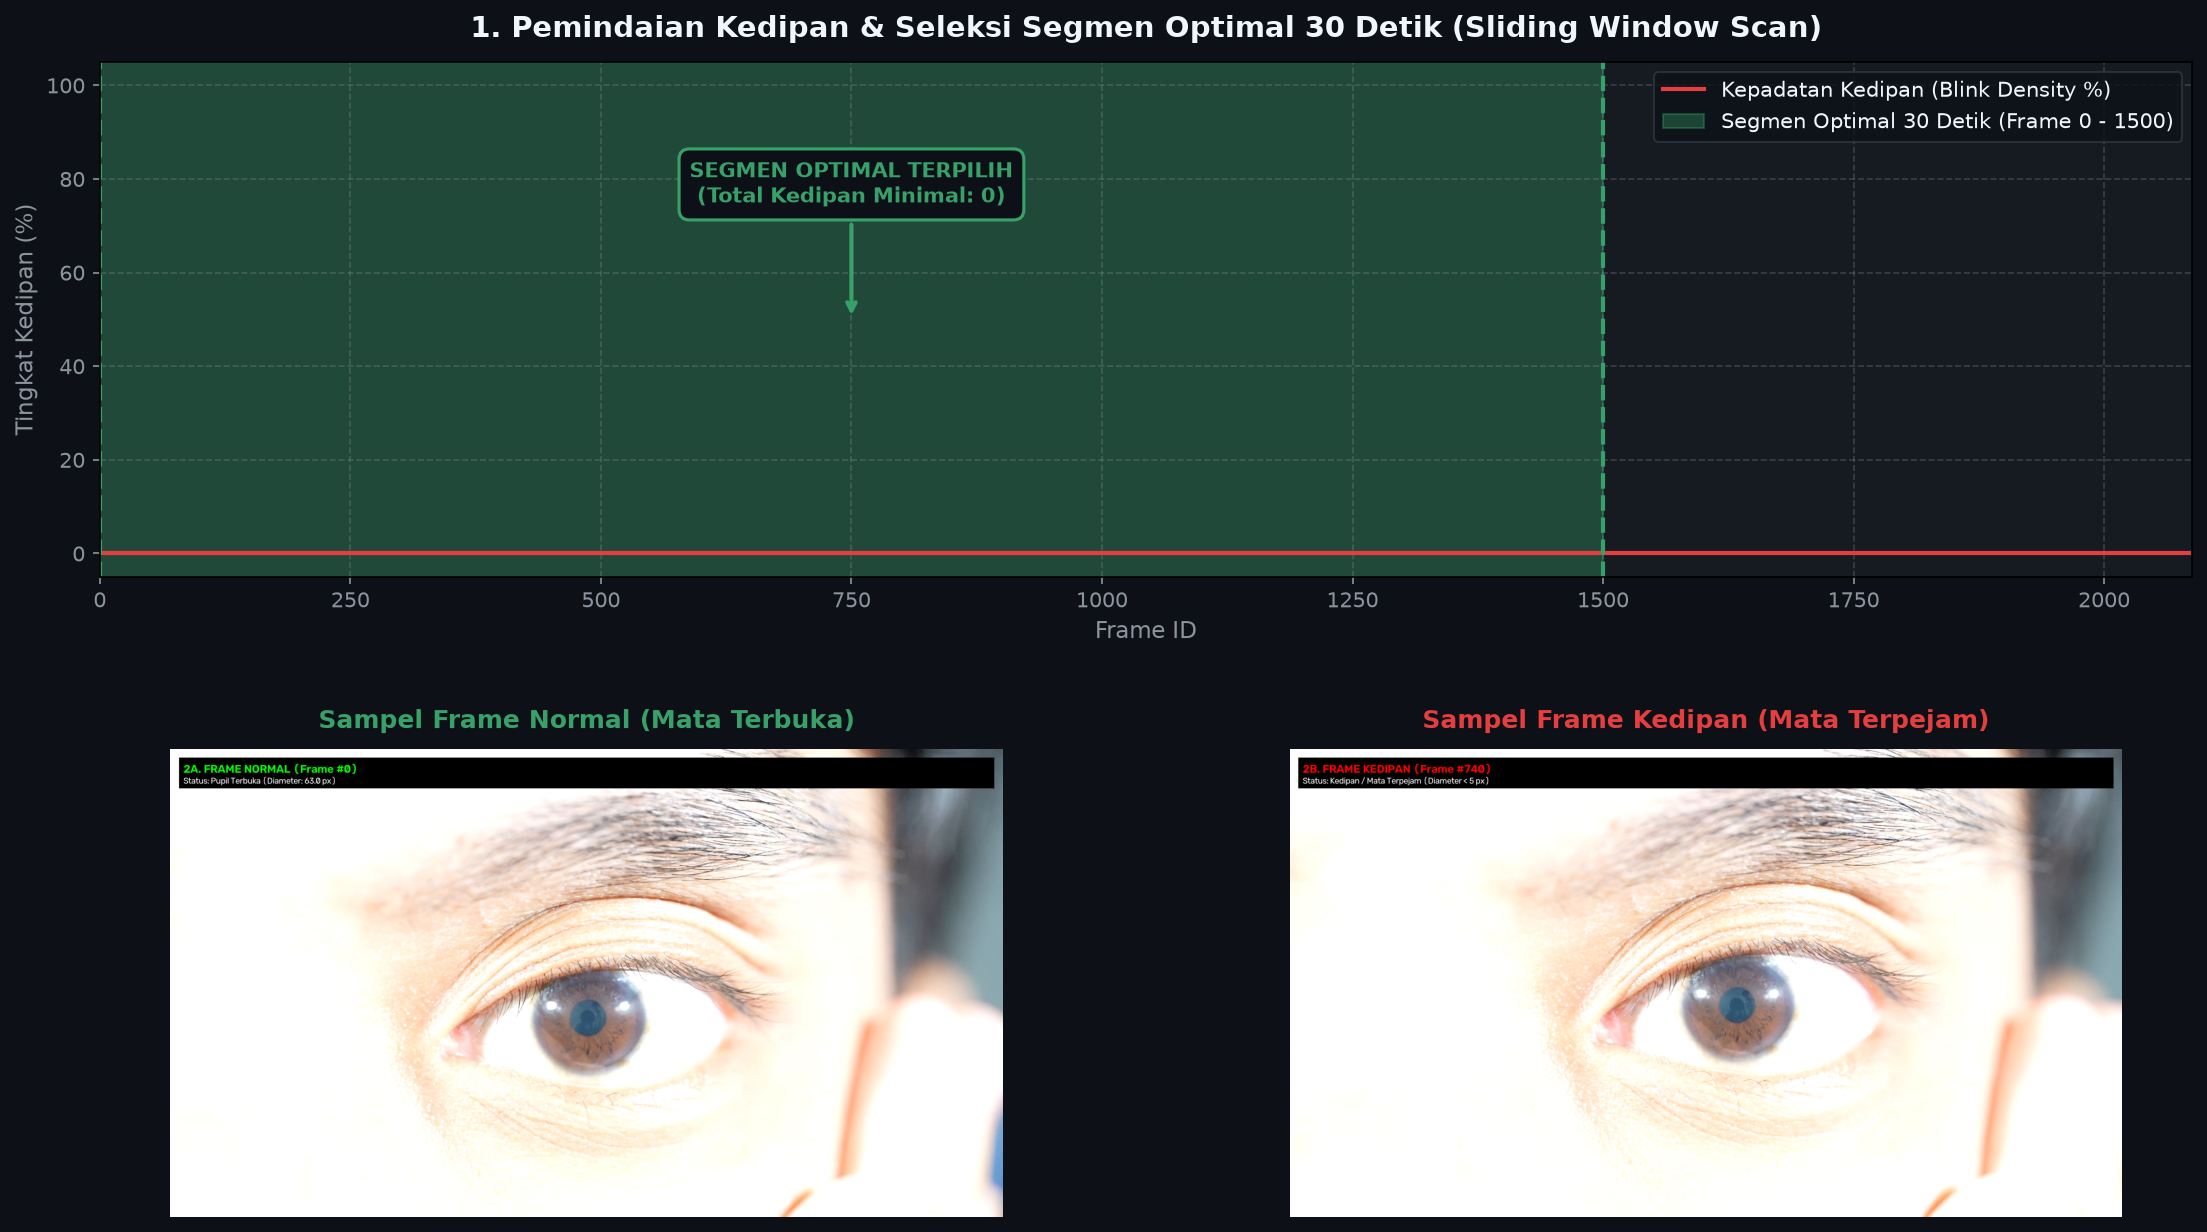
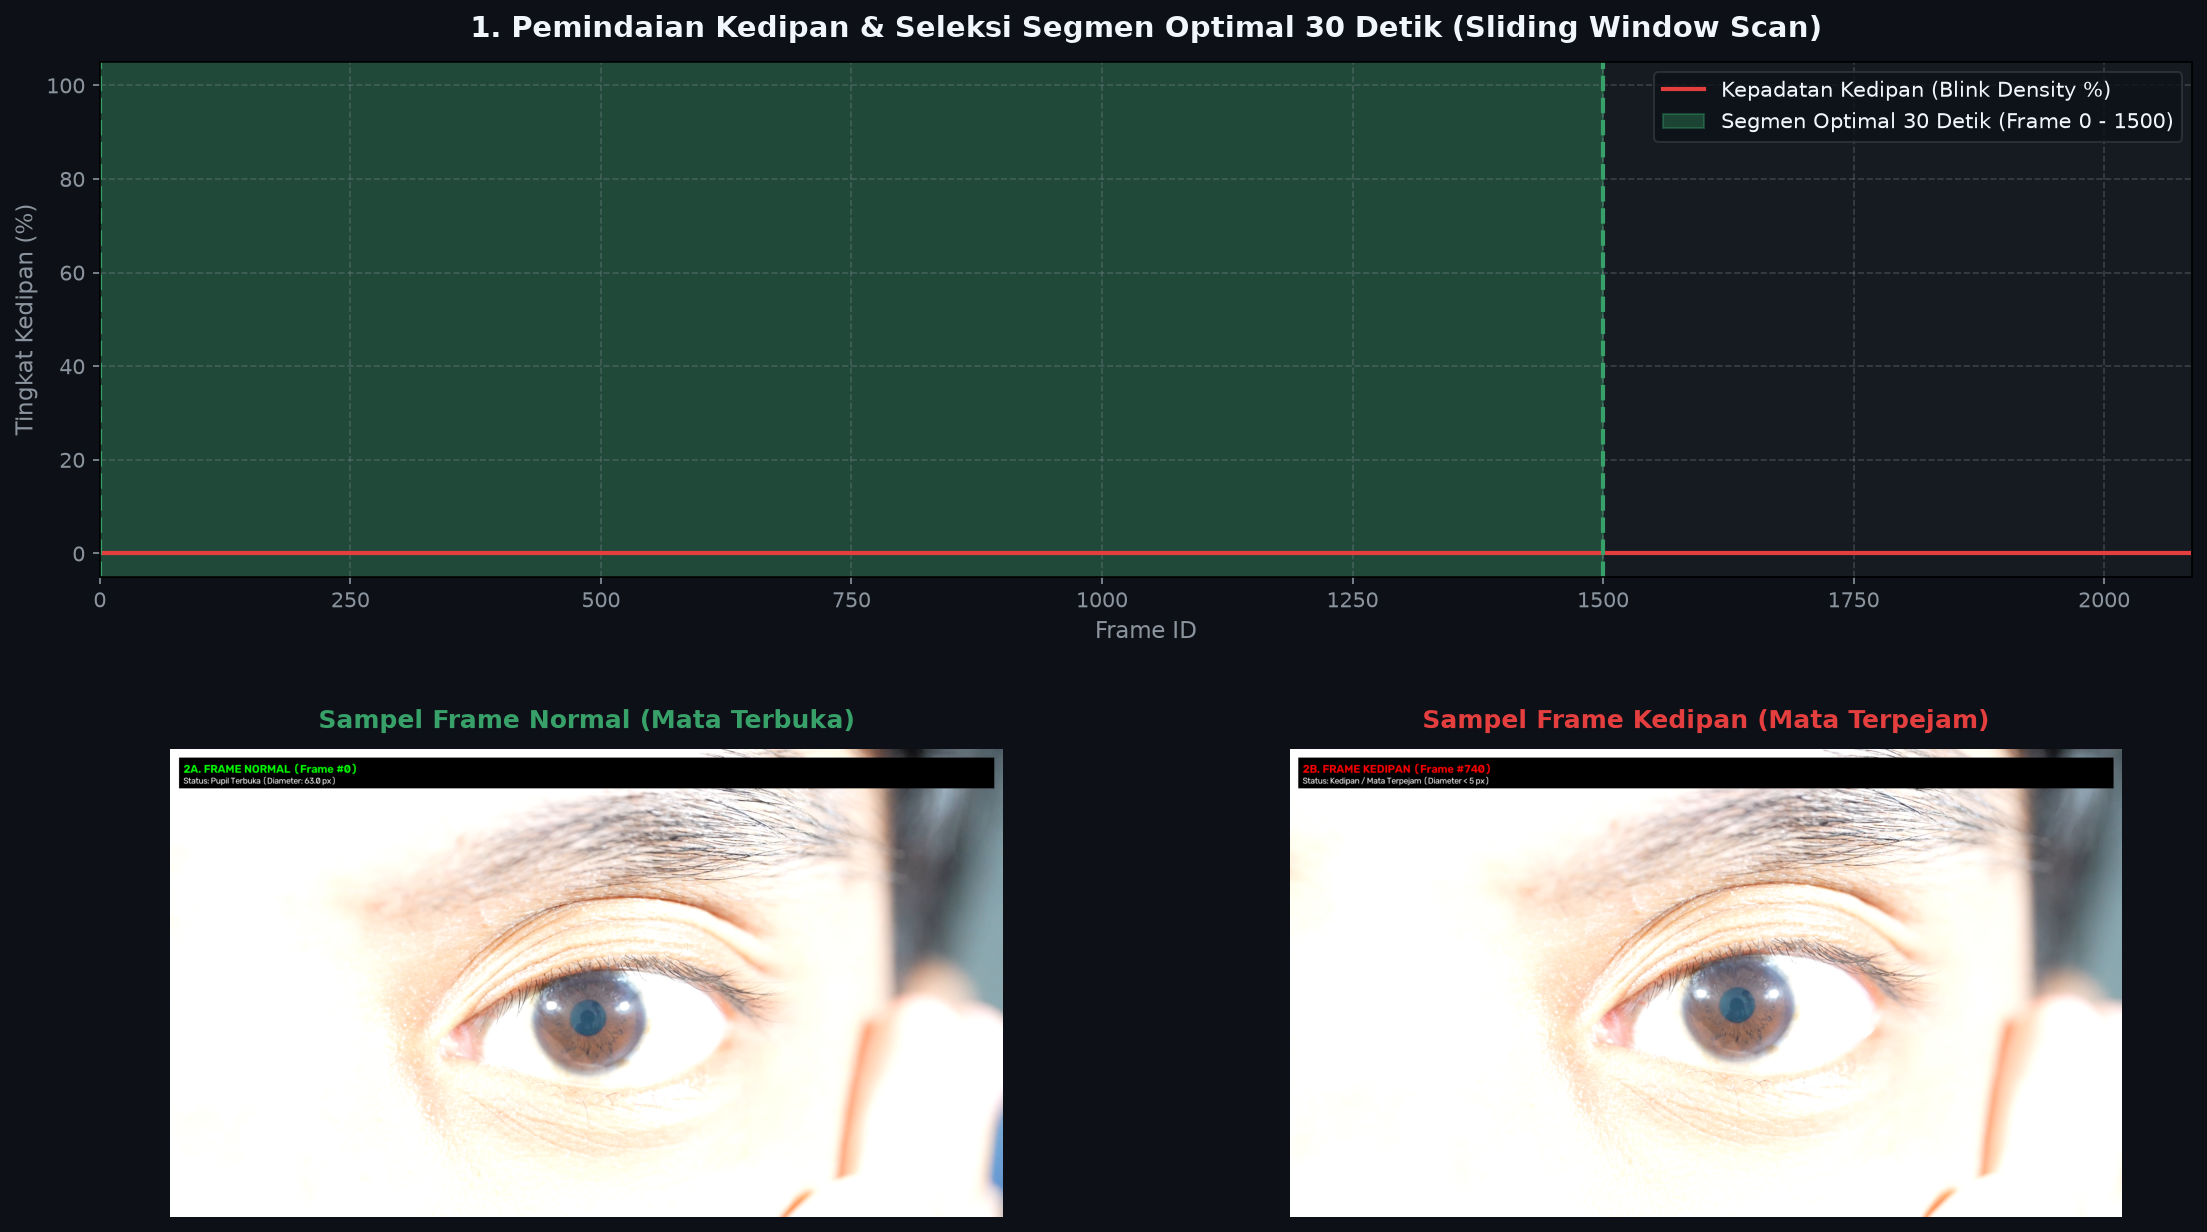
docs: add SOP-02 & SOP-03 process visualization images to fase1_data_preparation.md

Changed region(s): [[0.3081, 0.0925, 0.4622, 0.1851]]

diff --git a/docs/about_program/fase1_data_preparation.md b/docs/about_program/fase1_data_preparation.md
@@ -28,6 +28,11 @@ Fase 1 berfokus pada tahap penyiapan data awal dari video mentah original hingga
   2. **Seleksi Jendela Waktu Optimal**: Memindai seluruh durasi video menggunakan jendela geser (*sliding window*) berdurasi 30 detik (1.500 frame). Sistem secara otomatis memilih rentang waktu dengan jumlah kedipan paling sedikit.
   3. **Ekstraksi Frame Murni**: Memotong 1.500 frame tepat pada rentang waktu terpilih dan menyimpannya secara *lossless* (`.png`) langsung ke folder `1_Raw_Frames_SOP01&02/`.
 
+#### **Visualisasi Alur Kerja SOP-02**
+![Visualisasi Alur Kerja SOP-02](../../assets/img/sop02_visualisasi_proses.png)
+*Gambar 1: Visualisasi alur kerja SOP-02. Panel atas menampilkan grafik pemindaian kepadatan kedipan di sepanjang durasi video dan sorotan hijau untuk Segmen Optimal 30 Detik (1.500 Frame); Panel bawah menampilkan perbandingan sampel Frame Normal (Pupil Terbuka) vs Frame Kedipan (Mata Terpejam).*
+
+
 #### **SOP-03: Pra-Pemrosesan Grayscale & EMA Motion-Stabilized Crop ROI (800x800 px)**
 * **Tujuan**: Pemotongan area mata (*Region of Interest / ROI*) resolusi 800x800 piksel yang terstabilisasi secara halus tanpa guncangan akibat pergerakan kepala responden.
 * **Logika Kerja**:
@@ -37,5 +42,6 @@ Fase 1 berfokus pada tahap penyiapan data awal dari video mentah original hingga
   4. **Pemotongan ROI & Penanganan Batas Gambar**: Memotong gambar area mata berukuran 800x800 piksel tepat di sekeliling titik pusat terstabilisasi. Jika kotak pemotongan menyentuh tepi luar gambar, sistem otomatis menambahkan bantalan tepi (*border padding*) agar ukuran gambar hasil potong tetap tepat 800x800 piksel. Gambar hasil potong disimpan ke folder `2_Grayscale_ROI_SOP03/`.
 
 #### **Visualisasi Alur Kerja SOP-03**
-![Visualisasi Alur Kerja SOP-03](../../assets/fase1/sop03_visualisasi_proses.png)
-*Gambar 1: Visualisasi 3-panel alur kerja SOP-03. Panel 1 menampilkan Bingkai Mentah Original; Panel 2 menampilkan area aktif 15% Border Margin Gating & titik tergelap pupil (silang merah); Panel 3 menampilkan hasil potong ROI 800x800 piksel terstabilisasi.*
+![Visualisasi Alur Kerja SOP-03](../../assets/img/sop03_visualisasi_proses.png)
+*Gambar 2: Visualisasi 3-panel alur kerja SOP-03. Panel 1 menampilkan Bingkai Mentah Original; Panel 2 menampilkan area aktif 15% Border Margin Gating & titik tergelap pupil (silang merah); Panel 3 menampilkan hasil potong ROI 800x800 piksel terstabilisasi.*
+
